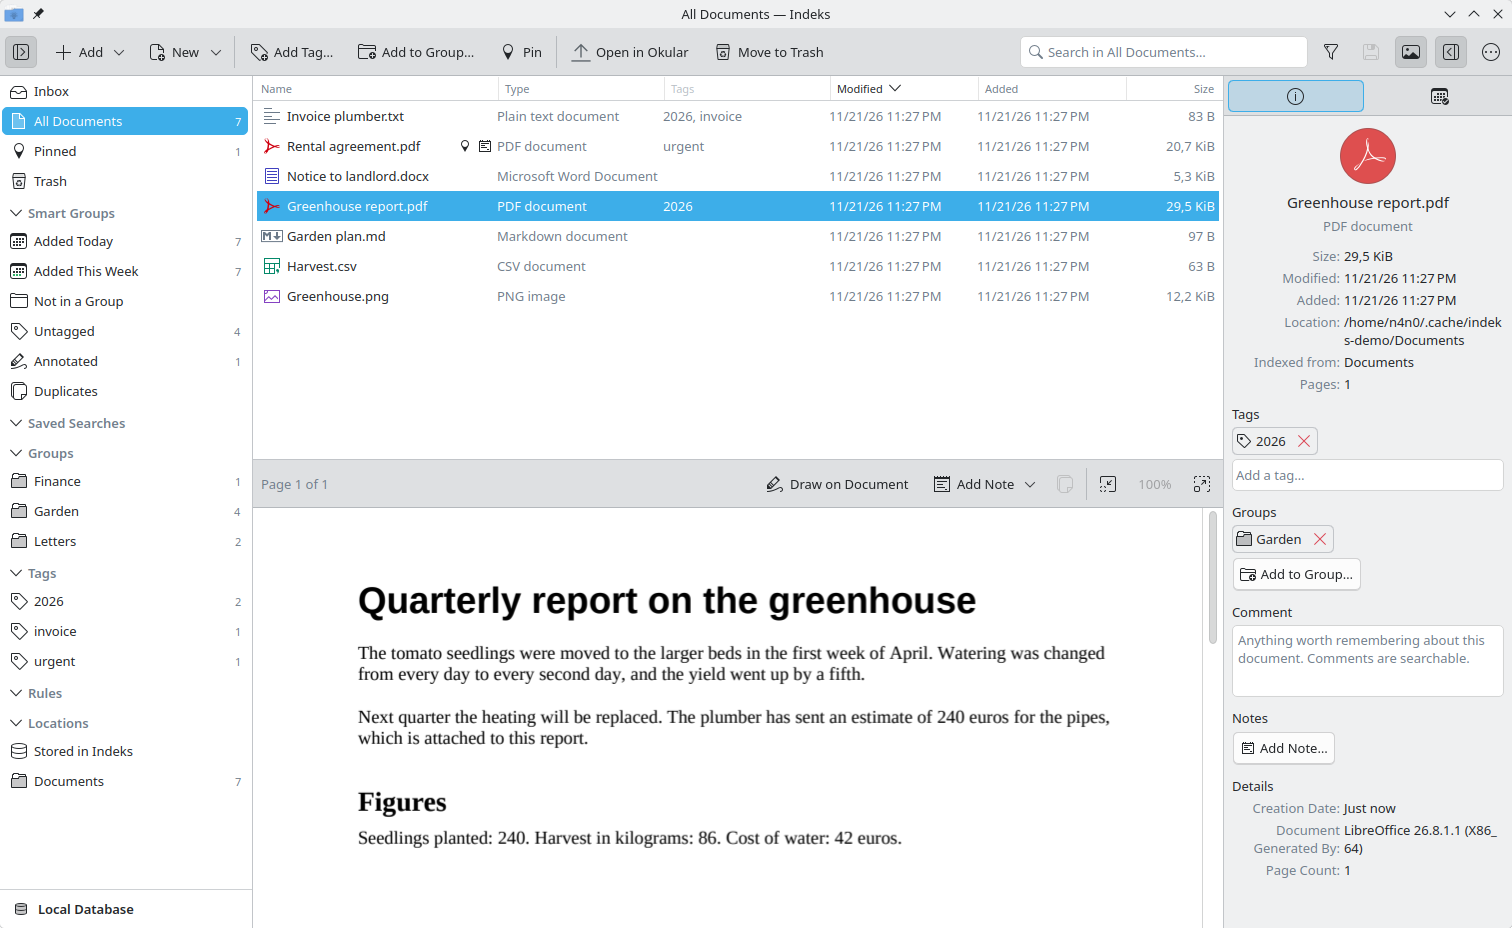
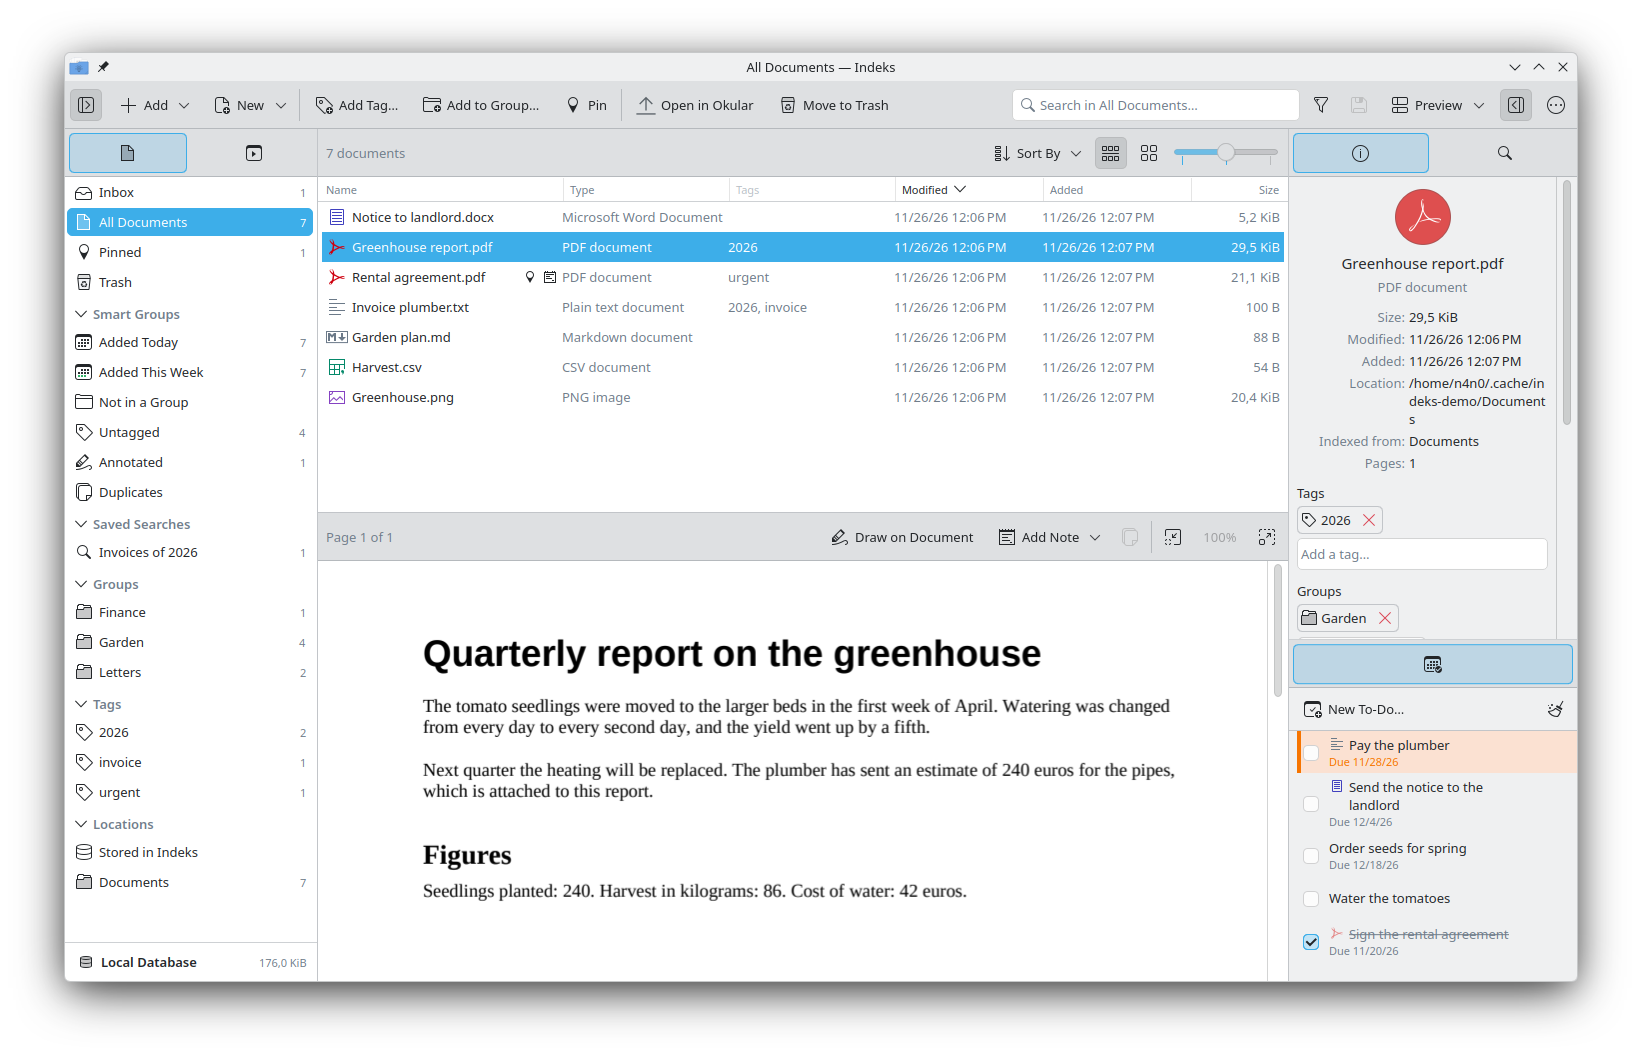
README: a picture of the window as it is now, with its frame and shadow

Changed region(s): [[0.0, 0.0, 1.0, 1.0]]

diff --git a/README.md b/README.md
@@ -12,7 +12,7 @@
 A document manager for KDE Plasma in the spirit of DEVONthink and EagleFiler, built with
 Qt 6, Kirigami and KDE Frameworks.
 
-![The Indeks window: places, groups and tags on the left, the list of documents with a PDF shown below it, and what is known about the document on the right](doc/images/indeks.png)
+![The Indeks window: places, saved searches, groups and tags on the left, the list of documents with a PDF shown below it, and on the right what is known about the document, above the to-do list](doc/images/indeks.png)
 
 Indeks does not take your files away from where they are. It keeps an index of folders you
 point it at – on this computer, on external drives, on servers – and lets you find, preview,
